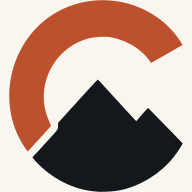
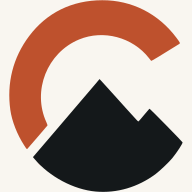
Kyle's new drawing, and a lockup that follows the mark instead of repeating it
THE DRAWING. art/favicon.png is Kyle's 2026-09-02 redraw: the mountain has
room and the two halves are 25.2 px apart in the 512 frame, against 8.5 px
before. Drawn in #fe5d01 and pure #000000, so the layer keys track it; both
key fine either way, since classify() picks the nearest of three colours that
are nowhere near each other. Every favicon output, the disc, the .ico and the
social card come off it.

THE EROSION COMES OFF, held at 0 rather than deleted. It ran at 20 for one
commit and was wrong twice. Wrong in effect: it takes the gap out of the
mountain's flank, and the flank is part of the drawing. Wrong in its premise:
the measurement that justified it said the halves touched over 248 pixels, and
those 248 were adjacent to the anti-aliasing SPECKS in the raw sun mask, not to
the C. Against a despeckled mask the old drawing already had 8.5 px. The
artifact that broke the fix had already broken the measurement that asked for
it, which is the part worth keeping. --gap N still works.

THE LOCKUP IS NOW COMPOSED. art/logo.png was traced whole, so a new mark meant
re-rendering the whole lockup with the type re-set by whatever tool made it --
and the mark was redrawn twice today. build_lockup() keeps only the type and
its rule, throws away everything left of x=309 (the leftmost letter of either
colour: orange C of CALTECH at 309, black A of ALPINE at 312) and drops in the
mark traced from art/favicon.png. One mark, one place it is drawn. The mark
[…]

diff --git a/tools/trace_logo.py b/tools/trace_logo.py
@@ -547,6 +547,148 @@ def build(spec, check_only=False, gap=None):
     return worst
 
 
+def build_lockup(spec, check_only=False, gap=None):
+    """The wordmark lockup, with the CURRENT mark dropped into it.
+
+    WHY THIS IS NOT JUST ANOTHER build(). art/logo.png is a single raster of the
+    whole lockup, so a new mark used to mean a new drawing of the whole lockup,
+    with the wordmark re-rendered by whatever tool made it and the kerning at
+    that tool's mercy. Kyle redrew the MARK twice on 2026-09-02. Redrawing the
+    type each time to keep up is how a wordmark drifts.
+
+    So the lockup is composed instead: the TYPE and its rule are traced from
+    art/logo.png, everything left of the type is thrown away, and the mark comes
+    from art/favicon.png -- the same trace the favicon and the disc use. One
+    mark, one place it is drawn, and the lockup follows it automatically.
+
+    THE SPLIT IS GEOMETRIC, NOT BY COLOUR, because it has to be: the orange C
+    shares a layer with "CALTECH" and the black mountain shares one with "ALPINE
+    CLUB". What makes it tractable is the rule -- the black bar under the whole
+    lockup. It is the only thing inked across most of the width, so it is found
+    by row coverage, lifted out, and the black layer then falls apart into the
+    mountain and the individual letters. `cut` is the left edge of the leftmost
+    letter of either colour, so nothing left of it is type.
+    """
+    rgba, w, h = load(spec)
+    masks = classify(rgba, spec["layers"])
+    cut = spec["cut"]
+    print("  %-13s %dx%d  (lockup: type from x>=%d, mark from %s)"
+          % (spec["src"], w, h, cut, spec["mark"]["src"]))
+
+    # The rule: rows inked right across the lockup. Found rather than written
+    # down, so a redrawn wordmark with a thicker or higher bar still works.
+    fig = masks[spec["rule_layer"]]
+    wide = np.nonzero(fig.sum(axis=1) > spec.get("rule_span", 0.80) * w)[0]
+    if not len(wide):
+        sys.exit("%s: no rule found -- no row is inked across %.0f%% of the "
+                 "width. If the lockup lost its underline, set rule_span."
+                 % (spec["src"], 100 * spec.get("rule_span", 0.80)))
+    ry0, ry1 = int(wide.min()), int(wide.max())
+    rule = np.zeros_like(fig)
+    rule[ry0:ry1 + 1, :] = fig[ry0:ry1 + 1, :]
+    print("    rule    rows %d..%d (%d px), kept whole; the mark sits on it"
+          % (ry0, ry1, ry1 - ry0 + 1))
+
+    # Type only: drop everything left of the first letter, put the rule back.
+    right = np.arange(w)[None, :] >= cut
+    keep = {}
+    for name, _, token in spec["layers"]:
+        if token is None:
+            continue
+        m = masks[name] & right
+        if name == spec["rule_layer"]:
+            m = m | rule
+        keep[name] = m
+
+    # The mark, traced from its own artwork by the same code as everything else.
+    mspec = spec["mark"]
+    mrgba, mw, mh = load(mspec)
+    mmasks = classify(mrgba, mspec["layers"])
+    if mspec.get("gap"):
+        shrink, against, k = mspec["gap"]
+        mmasks = widen_gap(mmasks, shrink, against, k if gap is None else gap)
+
+    traced_type, traced_mark = [], []
+    worst = 0.0
+    for name, _, token in spec["layers"]:
+        if token is None:
+            continue
+        d = trace(keep[name], spec.get("turdsize", 8), spec.get("alphamax", 1.0),
+                  spec.get("opttolerance", 0.6))
+        bad = disagreement(keep[name], d, w, h)
+        worst = max(worst, bad or 0.0)
+        print("    %-7s %8d px  %6d bytes  %s   (type)"
+              % (name, keep[name].sum(), len(d),
+                 ("%.2f%% off" % (100 * bad)) if bad is not None else "unmeasured"))
+        traced_type.append((name, token, d))
+    for name, _, token in mspec["layers"]:
+        if token is None:
+            continue
+        d = trace(mmasks[name], mspec.get("turdsize", 8),
+                  mspec.get("alphamax", 1.0), mspec.get("opttolerance", 0.6))
+        print("    %-7s %8d px  %6d bytes                (mark)"
+              % (name, mmasks[name].sum(), len(d)))
+        traced_mark.append((name, token, d))
+
+    # PLACEMENT. The mark is a disc, so it is placed by its circumscribed circle
+    # rather than its bounding box -- same reasoning as the favicon disc, and the
+    # same function. Diameter is the height above the rule, so the mark sits ON
+    # the rule exactly as the drawn mountain did, and its left edge is the frame's
+    # left edge, so the lockup still begins where the mark begins.
+    mcx, mcy, mr = enclosing_circle([d for _, _, d in traced_mark], mw, mh)
+    diameter = float(h)
+    s = (diameter / 2.0) / mr
+    tx = diameter / 2.0 - s * mcx
+    ty = diameter / 2.0 - s * mcy
+    print("    mark    disc %.0f px tall, x 0..%.0f, sitting on the rule at y=%d; "
+          "type starts at x=%d, so the gap is %.0f px"
+          % (diameter, diameter, ry0, cut, cut - diameter))
+
+    for out_name, overrides, header in spec["outputs"]:
+        body = []
+        for name, token, d in traced_type:
+            body.append('  <path fill="%s" d="%s"/>'
+                        % (palette.hexof(overrides.get(name, token)), d))
+        body.append('  <g transform="matrix(%s,0,0,%s,%s,%s)">'
+                    % (n(s), n(s), n(tx), n(ty)))
+        # THE MARK'S LAYERS ANSWER TO THE LOCKUP'S OVERRIDE KEYS. The two
+        # drawings name the same roles differently -- the lockup calls its dark
+        # layer `figure` because it is mostly letterforms, the mark calls its
+        # `rock` because it is a mountain -- so `{"figure": "paper"}` reached the
+        # type and the rule and sailed straight past the mountain. The dark
+        # lockup came out with an ink mountain on an ink background: invisible,
+        # and invisible in a way that looks like a rendering glitch rather than a
+        # missing mapping. `roles` is what makes one override key hit both.
+        roles = spec.get("roles", {})
+        for name, token, d in traced_mark:
+            key = roles.get(name, name)
+            body.append('    <path fill="%s" d="%s"/>'
+                        % (palette.hexof(overrides.get(key, token)), d))
+        body.append("  </g>")
+
+        svg = ('%s<svg xmlns="http://www.w3.org/2000/svg" viewBox="0 0 %d %d"\n'
+               '     role="img" aria-label="Caltech Alpine Club">\n%s\n</svg>\n'
+               % (header, w, h, "\n".join(body)))
+        try:
+            import xml.etree.ElementTree as ET
+            ET.fromstring(svg)
+        except Exception as err:
+            sys.exit("%s is not well-formed XML: %s\n"
+                     "  If the message points at a comment, look for '--' in "
+                     "it: XML does not allow it there." % (out_name, err))
+
+        if check_only:
+            print("      --check: would write %s (%d bytes)" % (out_name, len(svg)))
+        else:
+            with open(os.path.join(IMAGES, out_name), "w",
+                      encoding="utf-8", newline="\n") as f:
+                f.write(svg)
+            print("      wrote assets/images/%-18s %6d bytes  %s"
+                  % (out_name, len(svg),
+                     ", ".join("%s=%s" % kv for kv in overrides.items()) or "as drawn"))
+    return worst
+
+
 # =========================================================== the drawings ==
 
 HEADER_LOGO = """<!--
@@ -701,6 +843,21 @@ LOGO = dict(
         ("logo.svg",         {},                   HEADER_LOGO),
         ("logo-on-dark.svg", {"figure": "paper"},  HEADER_LOGO_DARK),
     ],
+    # COMPOSED, NOT TRACED WHOLE (2026-09-02). Everything left of x=309 in
+    # art/logo.png is the OLD mark and is thrown away; the type and its rule are
+    # kept, and the mark is taken from art/favicon.png instead. 309 is the left
+    # edge of the leftmost letter of either colour -- the orange C of "CALTECH"
+    # at 309, the black A of "ALPINE" at 312 -- measured, not eyeballed.
+    #
+    # The consequence worth knowing: art/logo.png's own mark is now dead pixels.
+    # Redrawing the lockup only matters if the TYPE changes. A new mark goes in
+    # art/favicon.png and this follows it, which is the point.
+    cut=309,
+    rule_layer="figure",
+    # Which of THIS spec's override keys each of the mark's layers listens to.
+    # Without it the dark lockup ships an ink mountain on an ink ground.
+    roles={"sun": "sun", "rock": "figure"},
+    mark=None,          # set to FAVICON below; it is defined after this one
 )
 
 # FAVICON -- an open orange C-ring with a mountain breaking out of it, on a
@@ -738,7 +895,18 @@ LOGO = dict(
 # about 2.5 and holds. The arc's endpoints barely moved (the gap edge went from
 # -34.5 to -32.0 degrees, the lower-left from 150.0 to 142.5), so this is the
 # same mark at a different weight and not a new one.
-FAVICON_SUN = (252, 69, 4)
+#
+# THE MOUNTAIN GOT ROOM (2026-09-02, second drawing that day). Kyle redrew it
+# with the two halves further apart and the mountain larger. That REPLACES the
+# `gap` erosion below rather than adding to it: the drawing now separates the
+# C from the mountain by 25.2 px in this 512 frame, against 8.5 px before, so
+# there is nothing left for an erosion to do and doing it anyway just eats the
+# mountain's flank. The drawing is drawn in #fe5d01 and pure #000000, where the
+# previous one used #fc4504 and #151515; both key fine either way, since
+# classify() takes the nearest of three colours that are nowhere near each
+# other, but the keys track the artwork so a future third drawing is compared
+# against what is actually on the canvas.
+FAVICON_SUN = (254, 93, 1)
 FAVICON = dict(
     src="favicon.png",
     trim=(254, 254, 254),
@@ -754,20 +922,21 @@ FAVICON = dict(
     layers=[
         ("field", (254, 254, 254),  None),      # keyed out, never drawn
         ("sun",   FAVICON_SUN,      "alpenglow"),
-        ("rock",  ( 21,  21,  21),  "ink"),
+        ("rock",  (  0,   0,   0),  "ink"),
     ],
-    # A REAL WHITE CHANNEL BETWEEN THE TWO HALVES (Kyle, 2026-09-02). In the
-    # drawing they touch: 248 pixels of the mountain are adjacent to the C and
-    # the narrowest separation is 2 px in this 512 frame, which is 0.06 of a
-    # device pixel at 16 px. Colour carried it; one ink does not, and a
-    # monochrome mark is the case this was raised for.
+    # THE CHANNEL IS DRAWN NOW, SO NOTHING IS ERODED. Held at 0 rather than
+    # deleted, because the machinery and the reason are both worth keeping.
     #
-    # 20 px here, chosen from renders in ONE INK at 16, 24, 32 and 48 px: it is
-    # the smallest value whose seam is unambiguous by 24 px. Nothing separates
-    # at 16 px in one colour, at any k, so there was no point paying more
-    # mountain for it. It costs 1.8% of the rock, entirely along the edge that
-    # was touching. See widen_gap() for why this is not a uniform erosion.
-    gap=("rock", "sun", 20),
+    # It ran at 20 for one commit and it was wrong twice over. Wrong in effect,
+    # because it takes the gap out of the mountain's flank and the flank is
+    # part of the drawing. Wrong in its premise: the measurement that justified
+    # it said the two halves touched over 248 pixels, and those 248 were
+    # adjacent to the anti-aliasing SPECKS in the raw sun mask, not to the C
+    # (see widen_gap() on why the mask is speckled). Measured against the
+    # despeckled mask the old drawing already had 8.5 px, and the drawing
+    # standing here now has 25.2. The lesson is the cheap one: the artifact
+    # that broke the fix had already broken the measurement that called for it.
+    gap=("rock", "sun", 0),
     # FOUR FILES, ONE TRACE. Two axes, and they are independent: whether the
     # mark carries its own ground (a tab strip: yes; a slide: no), and which
     # way round the mountain is (on paper: ink; on ink: paper). Every one of
@@ -792,6 +961,14 @@ FAVICON = dict(
     ],
 )
 
+# The lockup borrows the favicon's drawing, and Python needs FAVICON to exist
+# before it can be pointed at. Tying the knot here rather than reordering the
+# two specs keeps each one's comment block next to the drawing it describes.
+LOGO["mark"] = FAVICON
+
+# A spec with a `mark` is composed by build_lockup(); everything else is traced
+# whole by build(). One dispatch, so adding a second composed lockup later needs
+# no new branch here.
 SOURCES = [LOGO, FAVICON]
 
 
@@ -812,7 +989,8 @@ def main():
     print("trace_logo.py  (palette from assets/css/style.css: %s)"
           % ", ".join("%s %s" % (t, palette.hexof(t))
                       for t in ("alpenglow", "ink", "paper")))
-    worst = max(build(s, check_only=a.check, gap=a.gap) for s in SOURCES)
+    worst = max((build_lockup if s.get("mark") else build)(
+                    s, check_only=a.check, gap=a.gap) for s in SOURCES)
 
     print()
     print("worst layer disagrees with its source on %.2f%% of pixels "

diff --git a/README.md b/README.md
@@ -390,8 +390,8 @@ over HTTP. Same reason `docs/` and `tools/` are not in there.
 
 | File | Built from | What it is |
 |---|---|---|
-| `logo.svg` | `art/logo.png` | the logo, dark type. **For light backgrounds** |
-| `logo-on-dark.svg` | `art/logo.png` | the same, light type. Masthead and footer, which are ink |
+| `logo.svg` | `art/logo.png` **+ `art/favicon.png`** | the lockup, dark type. **For light backgrounds.** Type and rule from the first, mark from the second — see below |
+| `logo-on-dark.svg` | the same two | the same, light type. Masthead and footer, which are ink |
 | `favicon-disc.svg` | `art/favicon.png` | **the tab icon.** The mark unaltered, inside a white disc; transparent outside it. Works on a light and a dark tab strip with no media query |
 | `favicon.svg` | `art/favicon.png` | the wordless mark, transparent, mountain flips on `prefers-color-scheme`. **No longer the tab icon**; still the source of every home-screen raster and the social card |
 | `favicon-on-dark.svg` | `art/favicon.png` | the same, transparent, dark colour baked in. **Unreferenced** since the disc landed |
@@ -402,25 +402,48 @@ over HTTP. Same reason `docs/` and `tools/` are not in there.
 | `favicon-disc-512.png` | `favicon-disc.svg` | the 512 master of the disc variant — what to upload where a service wants a PNG and will put it on dark chrome |
 | `social-default.png` | `favicon.svg` | the link preview, written by `tools/make_social.py` |
 
-**The mark's two halves are pulled apart at trace time, not in the drawing.**
-In `art/favicon.png` the mountain and the C touch: 248 adjacent pixels, and a
-narrowest separation of 2 px in a 512 frame, which is 0.06 of a device pixel at
-16 px. Colour hides that — orange beside black is two shapes whatever the gap
-is — but **one ink makes it a single blob**, and a monochrome mark is a case the
-club will hit (an engraving, a stamp, a service that flattens an avatar). So the
-`gap` key on the FAVICON spec erodes the mountain 20 px clear of the C before
-potrace runs, and `widen_gap()` does it *only near the orange*: a uniform
-erosion would pull the base off the outer circle and the mark would stop being a
-disc, whereas this leaves the peaks, the ridges and the base arc bit-for-bit
-what they were, at a cost of **1.8 % of the mountain**. Measured on the shipped
-SVG, the two halves are now **17 px apart at their closest**. 20 was chosen from
-renders in one ink at 16, 24, 32 and 48 px: it is the smallest value whose seam
-is unambiguous by 24 px, and nothing separates at 16 px in one colour at any
-value, so there was no point paying more mountain for it. Vary it with
-`python tools/trace_logo.py --gap N --check`; `--gap 0` restores the drawing as
-drawn. **The lockup is untouched** — `art/logo.png` is a different composition
-that already has the separation, and its `figure` layer is the wordmark, so the
-same erosion there would eat letterform spacing.
+**The C and the mountain need a white channel between them, and it is DRAWN.**
+In one ink — an engraving, a stamp, a service that flattens an avatar — the gap
+is the only thing telling the two halves apart, so it has to survive at small
+size. The drawing of 2026-09-02 separates them by **25.2 px in a 512 frame**
+(21.9 px measured back off the shipped SVG), which is enough.
+
+`widen_gap()` and the `gap` key exist to do that mechanically, and are **held at
+0**, deliberately rather than deleted. They ran at 20 for one commit and it was
+wrong twice: wrong in effect, because eroding the mountain takes the gap out of
+its flank and the flank is part of the drawing; and wrong in its premise, because
+the measurement that called for it reported the two halves touching over 248
+pixels, and those 248 were adjacent to the **anti-aliasing specks** in the raw
+sun mask rather than to the C. Against a despeckled mask the previous drawing
+already had 8.5 px. *The artifact that broke the fix had already broken the
+measurement that asked for it* — worth remembering the next time a mask is
+measured before it is traced. `--gap N` still works if a future drawing needs it.
+
+**The lockup is COMPOSED, so a new mark does not mean redrawing the wordmark.**
+`art/logo.png` used to be traced whole, which meant every change to the mark
+required a fresh render of the entire lockup with the type re-set by whatever
+tool made it — and Kyle redrew the mark twice on 2026-09-02 alone. So
+`build_lockup()` now keeps only the **type and its rule** from `art/logo.png`,
+throws away everything left of `cut` (x = 309, the left edge of the leftmost
+letter of either colour — the orange C of CALTECH at 309, the black A of ALPINE
+at 312), and drops in the mark traced from `art/favicon.png`. One mark, one
+place it is drawn, and the lockup follows it. **The mark half of `art/logo.png`
+is now dead pixels**; redraw that file only when the *type* changes.
+
+The split has to be geometric, because colour will not do it: the orange C
+shares a layer with "CALTECH" and the black mountain shares one with "ALPINE
+CLUB". What makes it work is the rule — the black bar is the only thing inked
+across most of the width, so it is found by row coverage (rows 275–292), lifted
+out, and the black layer then falls apart into the mountain and the individual
+letters. The mark is placed by its circumscribed circle, not its bounding box,
+at the full frame height so it sits on the rule exactly as the drawn mountain
+did.
+
+One trap that mapping closed: the two drawings name the same role differently —
+the lockup's dark layer is `figure` because it is mostly letterforms, the mark's
+is `rock` because it is a mountain. So `{"figure": "paper"}` reached the type and
+the rule and **sailed straight past the mountain**, and the dark lockup shipped
+an ink mountain on an ink ground. The `roles` key maps one onto the other.
 
 **The light and dark logos are one trace, not two drawings.** `trace_logo.py`
 traces the artwork once and writes it twice, swapping a single token, so the
